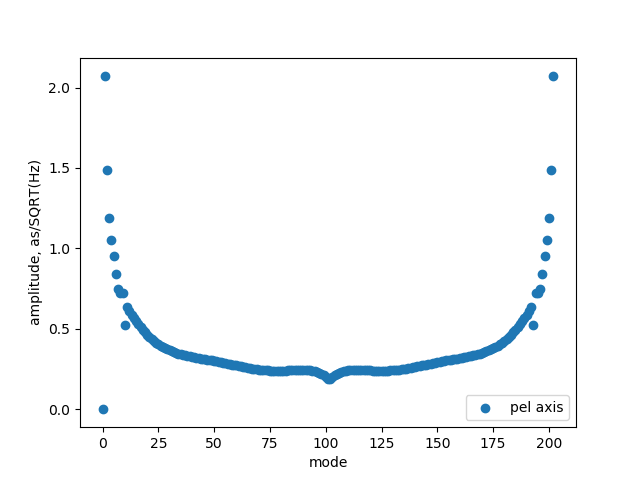
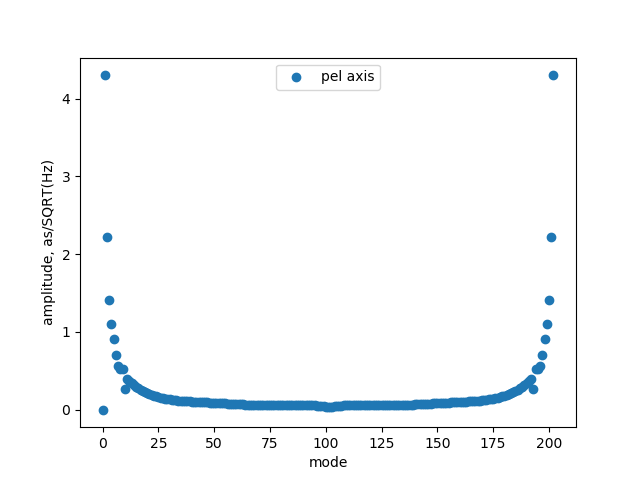
Change scaling factor

diff --git a/pointing_error_models/time_series.py b/pointing_error_models/time_series.py
@@ -148,7 +148,6 @@ for axis in axes:
     M=len(z_az)
     print ('Number of frequencies: ', M) # N=M+1
 
-    z_az*=np.sqrt(M)
 
     # perform inverse fft
     ts = np.fft.ifft(z_az) 
@@ -168,7 +167,7 @@ for axis in axes:
     print('tmax: ', tmax)
     print ()
 
-    #ts.real*=np.sqrt(N) # the result is scaled by number of points in the signal, so multiply - real part - by this
+    ts.real*=np.sqrt(N) # the result is scaled by number of points in the signal, so multiply - real part - by this
   # see https://docs.scipy.org/doc/numpy/reference/routines.fft.html for scaling desciption
   # ! this is wrong - appears to be scaled by 1/sqrt(N) - maybe since hermitian?
 
